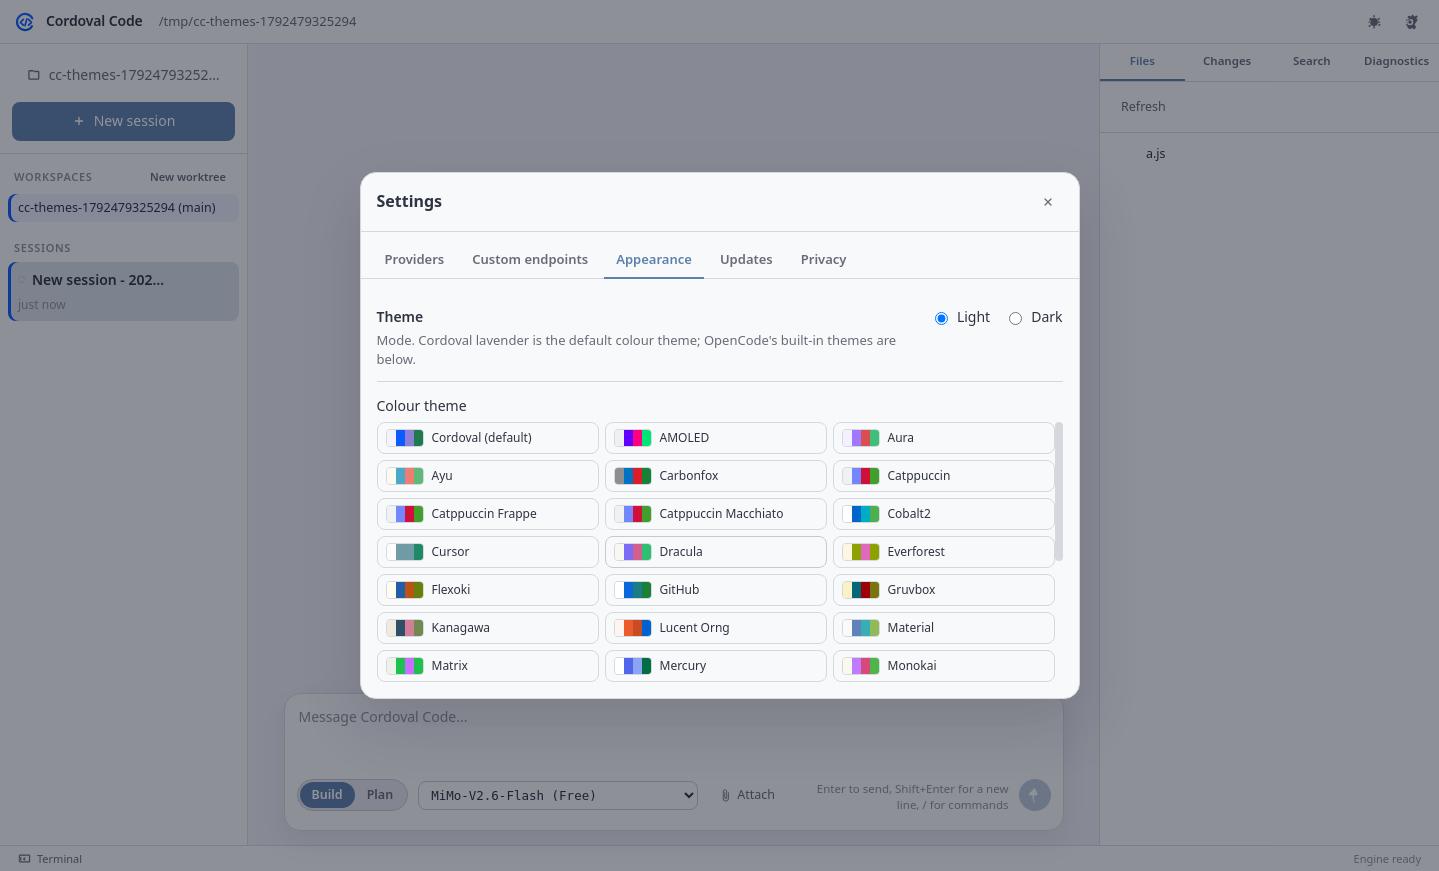
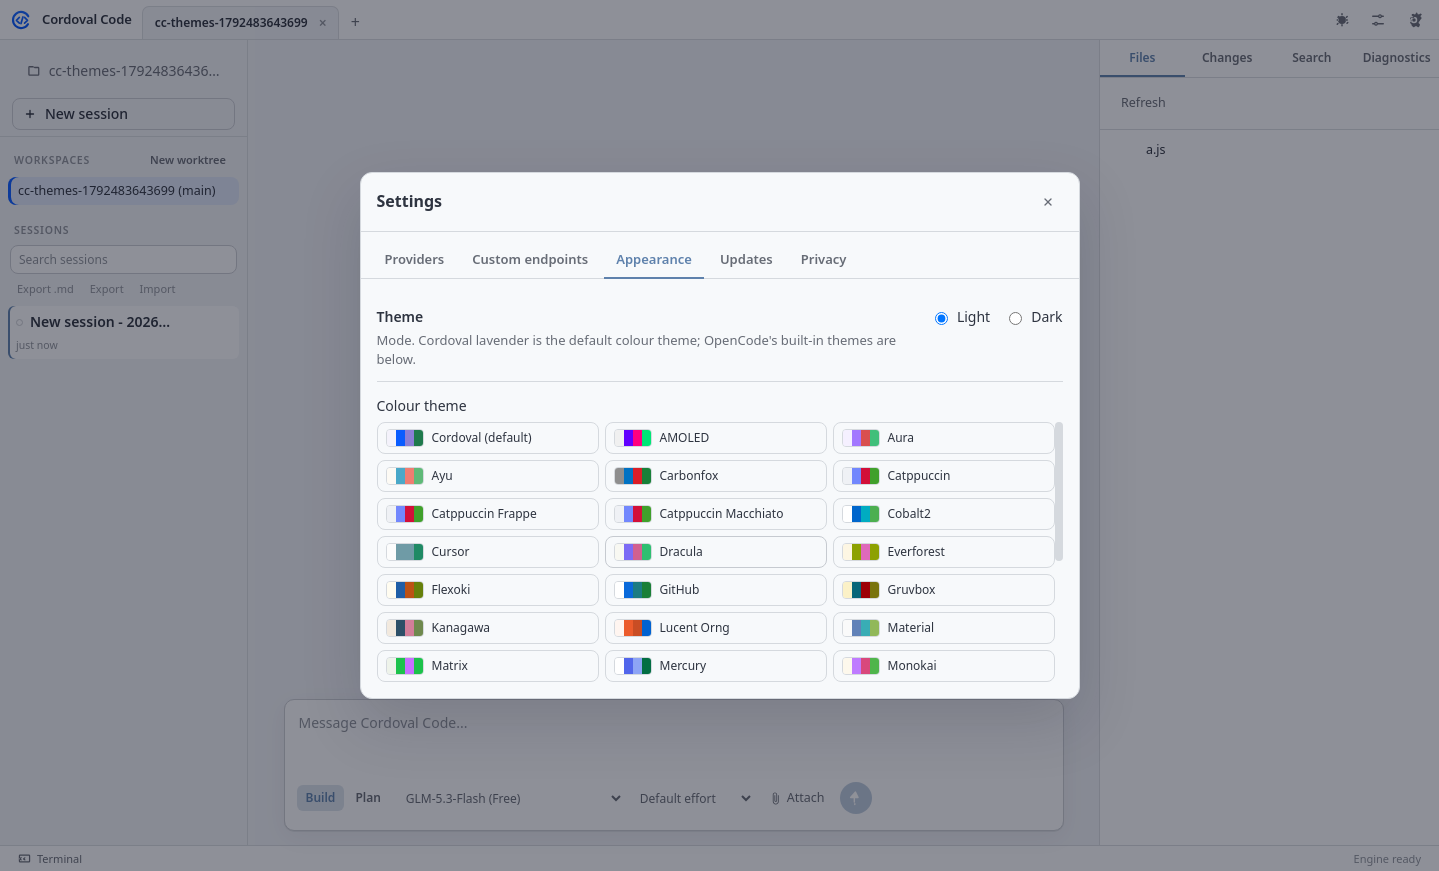
Visual pass toward OpenCode desktop: flatter chrome, pill pickers, quieter sidebar; hide synthetic context parts

diff --git a/src/renderer/styles.css b/src/renderer/styles.css
@@ -2384,3 +2384,36 @@ kbd { font-family: var(--mono, ui-monospace, monospace); font-size: 11px; paddin
 .shortcut-keys.is-recording { border-color: var(--accent); color: var(--accent); font-size: 12px; }
 .shortcut-row.is-custom kbd { border-color: var(--accent); color: var(--accent); }
 .shortcut-none { font-size: 11px; color: var(--faint); }
+
+/* ---------- Round 6 visual pass: closer to OpenCode desktop ----------
+   Flatter surfaces, quieter chrome, compact type, controls as text-like pills.
+   Cordoval accent and lavender theme stay. */
+.app { grid-template-rows: 40px 1fr auto !important; }
+.titlebar { height: 40px !important; min-height: 40px !important; gap: 10px !important; padding: 0 10px !important; }
+.brand-name { font-size: 13px; }
+.sidebar { background: var(--bg) !important; }
+.sidebar-top { padding-bottom: 6px; }
+#btn-new-session { background: transparent !important; color: var(--text) !important; border: 1px solid var(--border-strong) !important; box-shadow: none !important; font-weight: 500; justify-content: flex-start; padding: 6px 10px; height: 32px; }
+#btn-new-session:hover { background: var(--panel) !important; border-color: var(--accent) !important; }
+.sidebar-label { font-size: 10.5px !important; letter-spacing: .07em; color: var(--faint) !important; }
+.session-item { border-radius: 6px !important; padding: 6px 8px !important; border-left: 0 !important; background: transparent !important; box-shadow: none !important; }
+.session-item:hover { background: var(--panel) !important; }
+.session-item.is-active { background: var(--panel) !important; box-shadow: inset 2px 0 0 var(--accent) !important; }
+.session-meta { font-size: 10.5px !important; }
+.session-tool-buttons .btn { color: var(--faint); }
+.messages { font-size: 13.5px; }
+.composer { border-radius: 10px !important; box-shadow: 0 1px 0 var(--border), 0 6px 24px rgba(0, 0, 0, 0.05) !important; border: 1px solid var(--border-strong) !important; }
+.composer-toolbar { gap: 4px !important; flex-wrap: nowrap; }
+.composer-hint { display: none !important; }
+.model-picker { border: 0 !important; background-color: transparent !important; box-shadow: none !important; font-family: inherit !important; font-size: 12px !important; color: var(--muted) !important; padding: 4px 22px 4px 8px !important; border-radius: 6px !important; cursor: pointer; max-width: 230px; }
+.model-picker:hover { background-color: var(--panel-2, var(--bg)) !important; color: var(--text) !important; }
+.agent-toggle { background: transparent !important; border: 0 !important; padding: 0 !important; gap: 2px; }
+.agent-btn { font-size: 12px !important; padding: 4px 9px !important; border-radius: 6px !important; }
+.agent-btn.is-active { background: var(--accent-soft) !important; color: var(--accent) !important; box-shadow: none !important; }
+.btn-attach { color: var(--muted) !important; }
+.right-tab { font-size: 12px !important; }
+.statusbar, .status-bar { font-size: 11px; }
+.tool-card { border-radius: 8px !important; }
+.modal { border-radius: 12px !important; }
+.message-user .bubble { background: var(--panel) !important; border: 1px solid var(--border) !important; box-shadow: none !important; }
+.message-assistant .bubble { background: transparent !important; border: 0 !important; box-shadow: none !important; padding-left: 0 !important; }

diff --git a/src/renderer/app.js b/src/renderer/app.js
@@ -623,6 +623,8 @@
     if (type === 'step-start' || type === 'step-finish') {
       return null;
     }
+    // Engine-generated text (e.g. the contents of an @-mentioned file) is context, not chat.
+    if (type === 'text' && part.synthetic) return null;
     if (type === 'reasoning') {
       const reasoningText = String(part.text == null ? '' : part.text);
       if (!reasoningText.trim()) return null;
